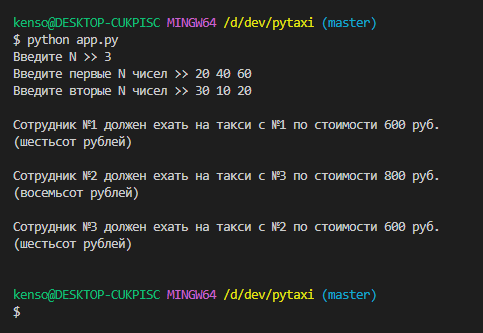
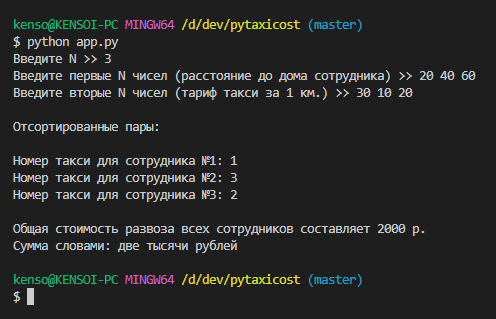
Total sum and user interface patch

diff --git a/app.py b/app.py
@@ -34,18 +34,23 @@ def main(N, first_line, second_line):
         for i in range(N)]
 
     result.sort(key=lambda x: x["sotrudnik_id"])
-
+    print("Отсортированные пары:\n")
     for i in range(N):
-        print("Сотрудник №{sotrudnik_id} должен ехать на такси с №{taxi_id} по стоимости {taxi_cost} руб.".format(
+        print("Номер такси для сотрудника №{sotrudnik_id}: {taxi_id}".format(
             **result[i]
         ))
-        print(f"({convert_to_word(result[i]['taxi_cost'])})")
-        print()
+
+    print()
+    total_sum = sum(map(lambda x: x['taxi_cost'], result))
+    total_sum_word = convert_to_word(total_sum)
+
+    print(f'Общая стоимость развоза всех сотрудников составляет {total_sum} р.')
+    print(f'Сумма словами: {total_sum_word}')
     
 
 if __name__ == "__main__":
     N = int(input("Введите N >> "))
-    first_line = get_int("Введите первые N чисел >> ", N) # расстояния для сотрудников
-    second_line = get_int("Введите вторые N чисел >> ", N) # цена за 1 км езды
+    first_line = get_int("Введите первые N чисел (расстояние до дома сотрудника) >> ", N) # расстояния для сотрудников
+    second_line = get_int("Введите вторые N чисел (тариф такси за 1 км.) >> ", N) # цена за 1 км езды
     print()
     main(N, first_line, second_line)
